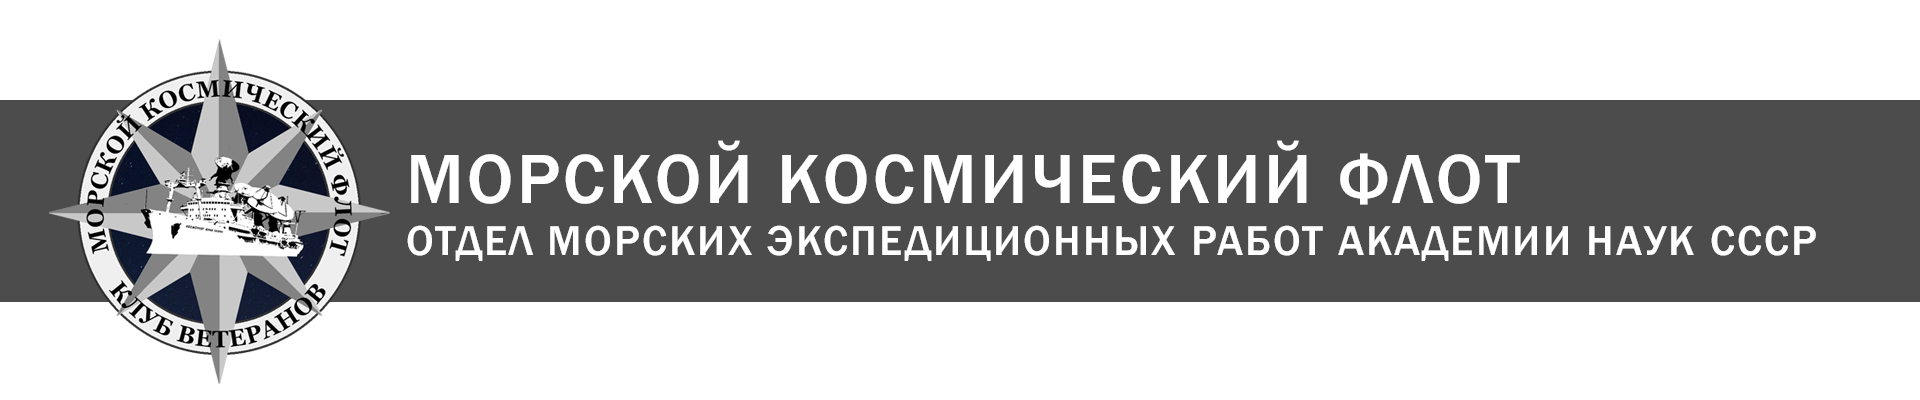
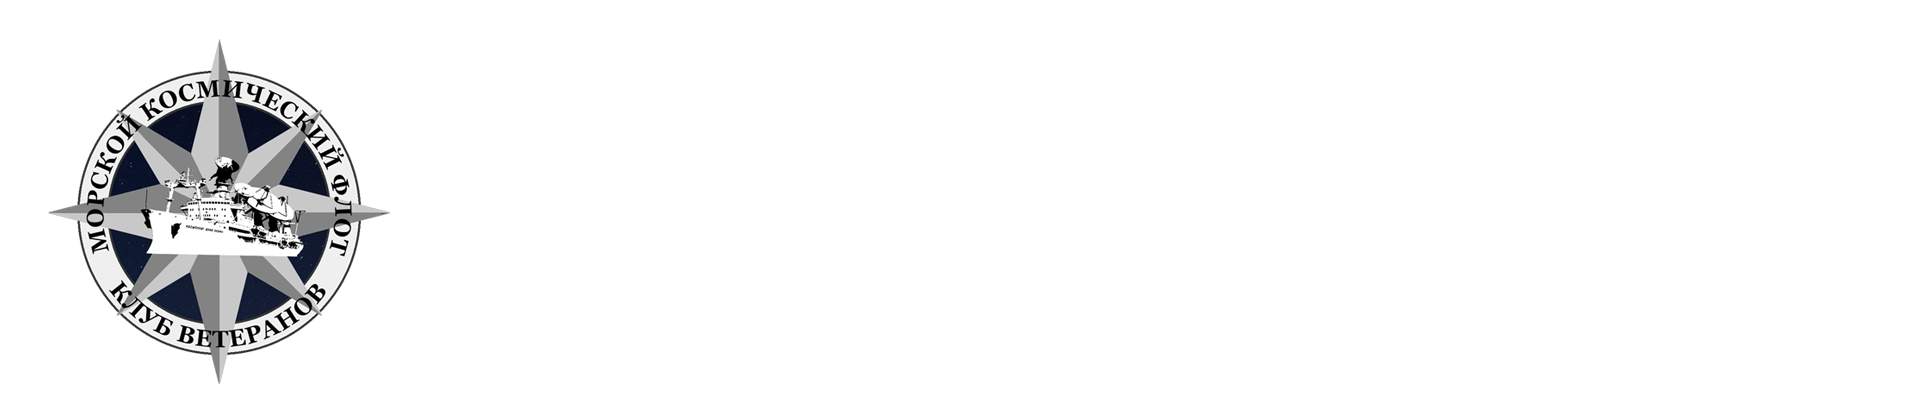
update navbar

diff --git a/src/app/navbar/navbar.component.html b/src/app/navbar/navbar.component.html
@@ -1,5 +1,8 @@
 <div class="main-nav">
-  <a [routerLink]="'/'"><img src="assets/img/header.png" class="img-fluid"></a>
+  <div class="img-div">
+    <a [routerLink]="'/'"><img src="assets/img/header.png" class="img-fluid main-img mx-auto d-block image"></a>
+    <img src="assets/img/back-header.png" class="img-fluid mx-auto d-block image back-img">
+  </div>
 </div>
 <nav class="navbar navbar-expand-lg navbar-dark bg-dark sticky-top" style="z-index: 2000 !important;">
   <button class="navbar-toggler" type="button" data-toggle="collapse" data-target="#navbarNavDropdown" aria-controls="navbarNavDropdown" aria-expanded="false" aria-label="Toggle navigation">

diff --git a/src/app/navbar/navbar.component.css b/src/app/navbar/navbar.component.css
@@ -1,10 +1,27 @@
 .main-nav {
 	width: 100%;
-	height: auto;
+	height: 20vh;
 	background-image: url(/assets/img/static/ocean.gif);
 	background-repeat: no-repeat;
 	background-size: cover;
 	background-position: top;
+}
+.main-img{
+	/* Размер лого 1920х400 */
+	height: 20vh;
+	width: auto;
+	z-index: 1050;
+	position: relative;
+	background-size: cover;
+}
+.back-img{
+	position: absolute;
+	top: 5.5vh;
+	right: 0;
+	left: 0;
+	height: 10vh;
+	width: 100vw;
+	background-size: cover;
 }
 .nav-link.active {
 	background-color: #f2f2f2;

diff --git a/src/app/app.component.html b/src/app/app.component.html
@@ -5,8 +5,7 @@
   color = "#fff"
   type="ball-scale-multiple"
   [fullScreen] = "true"
-  >
-  <p style="color: white" > Загрузка </p>
+>
 </ngx-spinner>
 <app-navbar></app-navbar>
 <div>

diff --git a/src/app/home/home.component.css b/src/app/home/home.component.css
@@ -1,5 +1,5 @@
 .carousel-item {
-	height: 50%;
+	height: calc(100vh - 20vh - 56px);
 	min-height: 350px;
 	background: no-repeat center center scroll;
 	-webkit-background-size: cover;
